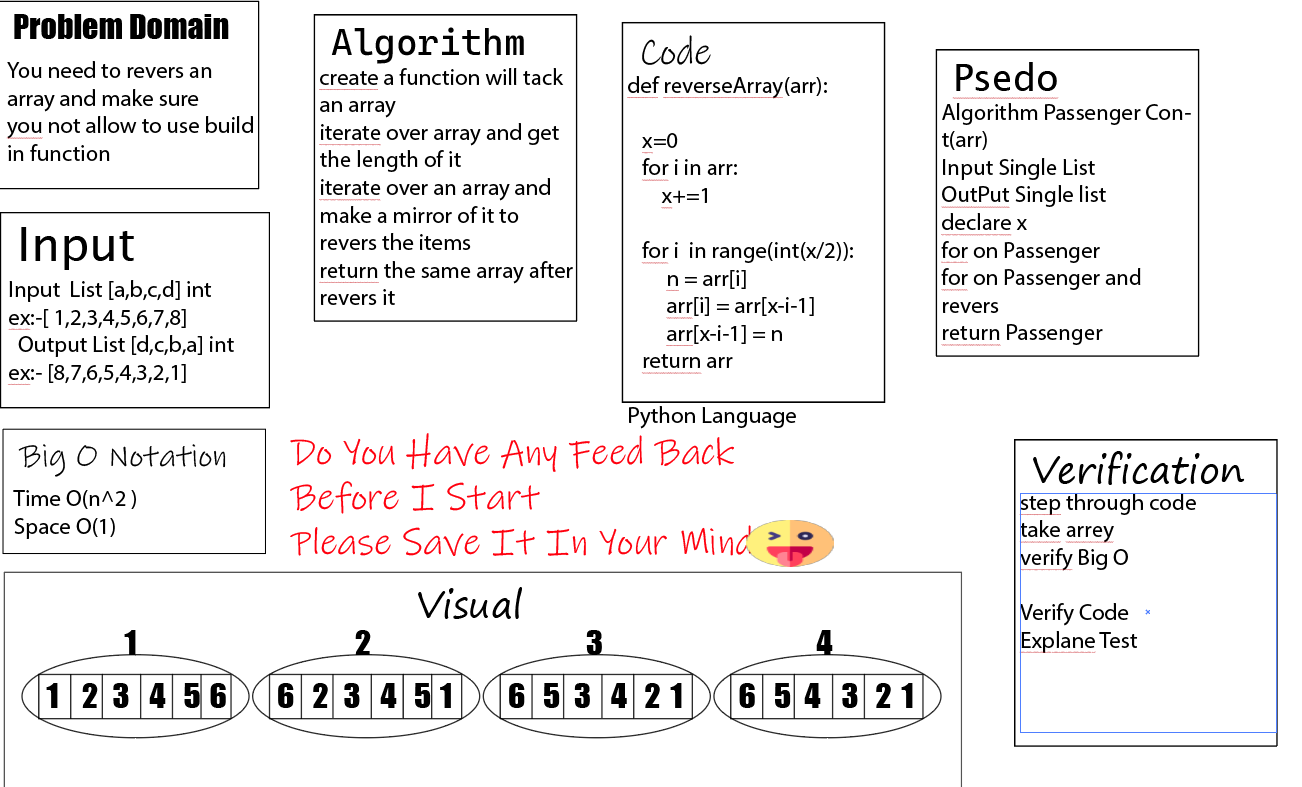
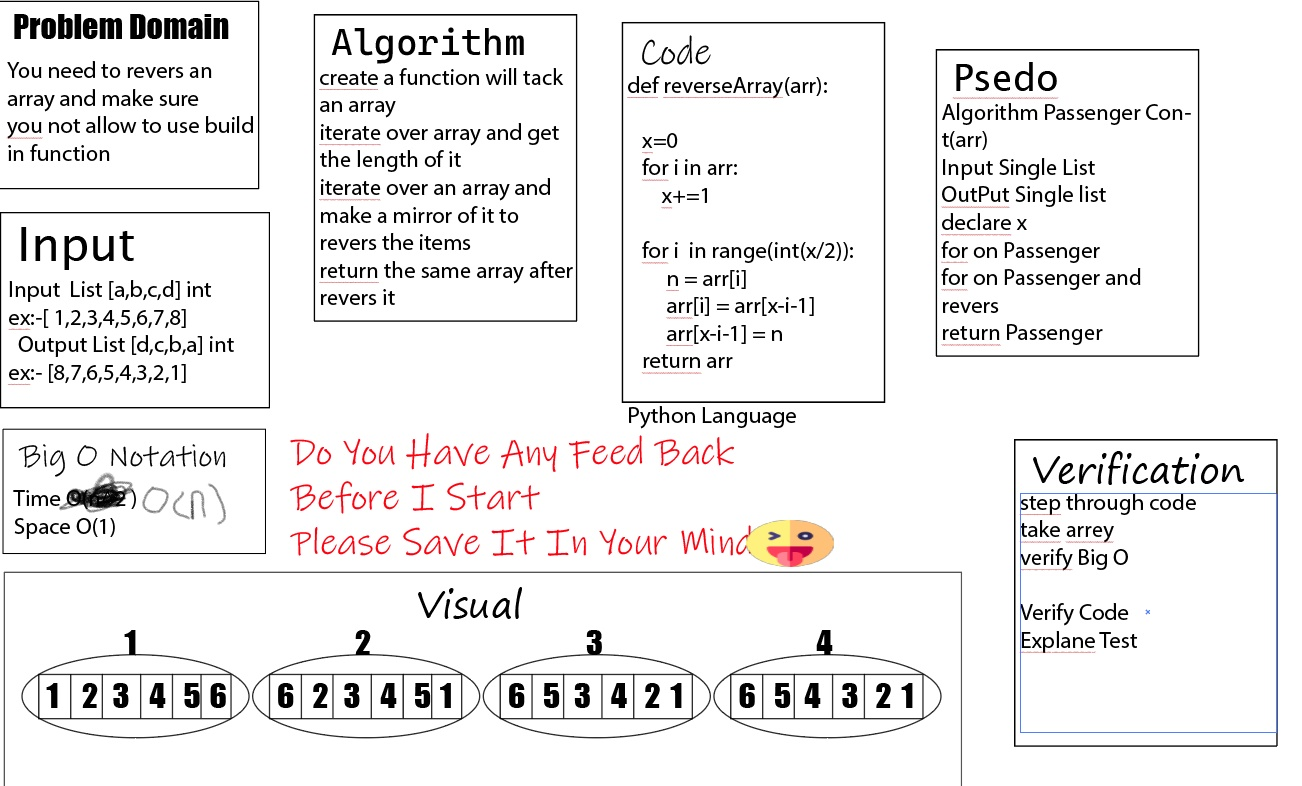
solve

diff --git a/python/challenges/Reverse_an_Array/reverseArray.py b/python/challenges/Reverse_an_Array/reverseArray.py
@@ -2,10 +2,7 @@
 def reverseArray(arr):
     # this function tack an array as input
 
-   x=0
-   # for over the loop to know how much element inside it
-   for i in arr:
-       x+=1
+   x=len(arr)
     # iteration over an array revers
    for i  in range(int(x/2)):  
         n = arr[i]

diff --git a/python/challenges/Reverse_an_Array/reverseArray.md b/python/challenges/Reverse_an_Array/reverseArray.md
@@ -10,4 +10,11 @@
 ![image](withePord.png)
 
 ## Approach & Efficiency
-O(n^2)
+I solved this problem by using for loop to iterated on the items inside the arr and make an mirror
+to switch the firs item with last item and so on and stopped on the middle after it the  return the array 
+that was reversed all item 
+
+Efficiency
+time :O(n) the time is related of how much items inside array of n 
+space:O(1) that because i didn't use declare any list or dictionary and I think that the best way and have a 
+little bit of space  
